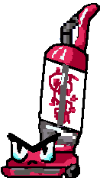
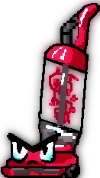
Add obstacles

Changed region(s): [[0.0, 0.0, 1.0, 1.0], [0.6, 0.8146, 0.72, 0.8708], [0.72, 0.7865, 0.75, 0.8146]]

diff --git a/src/player.js b/src/player.js
@@ -8,45 +8,50 @@
 class Player {
     constructor(dimensions){
         this.dimensions = dimensions;
-        this.size = 50;
-        this.ground = this.dimensions.height - this.size;
-        this.x = this.size; 
+        this.ground = this.dimensions.height - 34;
+        this.x = 50;
         this.y = this.ground; //it is sitting at the bottom
         this.velocity = 0; //velocity speed along the y axis to be able to jump
         this.gravity = .4; //on every frame adding .4 to the objects y position
         this.speed = 1;
         this.jumping= false;
-        this.jumpForce = 12;
+        this.jumpForce = 11;
         this.jumpTicks = 0;
         this.maxHeight = 0;
         this.dogHero = new Image();
         this.dogHero.src = "./assets/caped_hero.png";
+        this.walkcycle = 0;
         this.spriteTiles = [
             {
-                sX: 7,
-                sY: 9,
+                sX: 61,
+                sY: 34,
                 w: 61,
-                h: 34
-            },
-            {
-                sX: 81,
-                sY: 10,
-                w: 63,
                 h: 32
             },
-            {   
-                sX: 154,
-                sY: 6,
-                w: 57,
-                h: 39
-            }, 
-            {   
-                sX: 230,
-                sY: 6,
-                w: 65,
-                h: 40
+            {
+                sX: 244,
+                sY: 35,
+                w: 63,
+                h: 30
             },
-             
+            // {   
+            //     sX: 426,
+            //     sY: 31,
+            //     w: 67,
+            //     h: 38
+            // }, 
+            // {   
+            //     sX: 610,
+            //     sY: 30,
+            //     w: 67,
+            //     h: 40
+            // },
+            // {
+            //     sX: 797,
+            //     sY: 31,
+            //     w: 61,
+            //     h: 38
+            // }             
         ];
 
         }
@@ -80,19 +85,40 @@ class Player {
     //       }
         
     // }
+ //edit more sprites and add them
+    loadSprite() {
+        switch(true){
+        case (this.y < 266):
+            return this.spriteTiles[1];
+        case (this.walkcycle < 10):
+            this.walkcycle += 1;
+            return this.spriteTiles[0];
+        case (this.walkcycle < 20):
+            this.walkcycle += 1;
+            return this.spriteTiles[1];
+        case (this.walkcycle < 30):
+            this.walkcycle += 1;
+            return this.spriteTiles[1];
+        default: 
+            this.walkcycle = 0;
+            return this.spriteTiles[0];
+        }
 
+    
+        
+    }
     jump() {
         if (this.jumping) {
             //it is really making many microjumps (jumpTicks) on the page and stimulating one large jump
             //jumpTicks helps generate changing positiondisplacements using gravity
-          if (this.jumpTicks === 0 || this.y < 250){
+          if (this.jumpTicks === 0 || this.y < 266){ 
               this.positionDisplacement = this.gravity * this.jumpTicks;
               this.y -= this.jumpForce - this.positionDisplacement;
             //jumpForce is speed at which object jumps
             this.jumpTicks += 1;
           } else {
               //else reset everything 
-            this.y = 250;
+            this.y = 266;
             this.jumpTicks = 0; 
             this.jumping = false;
             }
@@ -121,17 +147,31 @@ class Player {
         this.draw(ctx);
     }
     draw(ctx){
-        ctx.clearRect(0,0,800,300);
-       
-        ctx.beginPath();
-        ctx.rect(this.x, this.y, this.size, this.size);
-        // ctx.drawImage(this.img, this.x, this.y);
-        ctx.fillStyle = "yellow";
-        ctx.fill();
-        ctx.strokeStyle = 'yellow';
-        ctx.stroke();
+        ctx.clearRect(0, 0, 800, 300)
+        let sprite = this.loadSprite();
+        ctx.drawImage(this.dogHero, sprite.sX, sprite.sY, sprite.w, sprite.h, this.x, this.y, sprite.w, sprite.h);
     }
-
+    // draw(ctx){
+        
+    //     ctx.clearRect(0,0,800,300);
+    //     for(let currentFrame = 0; currentFrame < this.spriteTiles.length; currentFrame++){
+    //         this.srcX = this.spriteTiles[currentFrame].sX;
+    //         this.srcY = this.spriteTiles[currentFrame].sY;
+    //         this.dogWidth = this.spriteTiles[currentFrame].w;
+    //         this.dogHeight = this.spriteTiles[currentFrame].h;
+    //         ctx.drawImage(this.dogHero, this.srcX, this.srcY, this.dogWidth, this.dogHeight, this.x, this.y, this.size, this.size);
+    //     }
+    // }
+    
+    // currentFrame = ++ currentFrame % cols; //gets updated index of frame
+    // debugger;
+    // ctx.beginPath();
+    // ctx.rect(this.x, this.y, this.size, this.size);
+    // // ctx.drawImage(this.img, this.x, this.y);
+    // ctx.fillStyle = "yellow";
+    // ctx.fill();
+    // ctx.strokeStyle = 'yellow';
+    // ctx.stroke();
 }
 
 

diff --git a/src/game.js b/src/game.js
@@ -1,6 +1,7 @@
 const Player = require('./player');
 const Background = require('./background.js');
 const Vacuum = require('./vacuum.js');
+const Treat = require('./treat.js');
 class Game{
     constructor(gamectx, backgroundctx){
         this.gamectx = gamectx;
@@ -11,12 +12,14 @@ class Game{
         this.spacePressed = false;
         this.registerEvents();
         this.start();
-       
+        this.obstacles = [];
         this.score = 0;
         this.gameSpeed = 3;
         this.gravity = 1;
+
         
     }
+ 
     // jump(){
         //     this.player.jumping = true;
         //     this.player.jump();
@@ -36,18 +39,21 @@ class Game{
         requestAnimationFrame(this.animate.bind(this));
         this.player.animate(this.gamectx);
         this.vacuum.draw(this.gamectx);
+        this.treat.draw(this.gamectx);
         this.background.draw();
     }
     start(){
         this.gameOver = false;
         this.player = new Player(this.dimensions);
-        this.vacuum = new Vacuum(700, 167);
-        
+        this.vacuum = new Vacuum(700, 184);
+        this.treat = new Treat(500, 140);
 
         //all other things to load here
         this.animate();
     }
-    
+    createObstacle(){
+
+    }
     
     // requestAnimation(){
     //     debugger;

diff --git a/src/vacuum.js b/src/vacuum.js
@@ -1,18 +1,26 @@
-const Obstacle = require("./obstacle");
 class Vacuum{
     constructor(positionX, positionY){
         // super(positionX, positionY);
         this.sprite = new Image();
         this.sprite.src = "./assets/evil_vacuum.png";
-        this.vacuumWidth = 75; 
+        this.vacuumWidth = 65; 
         this.spawnX = positionX;
-        this.vacuumHeight = 133;   
+        this.x = positionX;
+        this.vacuumHeight = 116;   
         this.spawnY = positionY;
+        this.speed = 3;
     }
 
 
     draw(ctx){
         ctx.drawImage(this.sprite, this.spawnX, this.spawnY, this.vacuumWidth, this.vacuumHeight);
+        if(this.spawnX <= (ctx.canvas.width*-1)){ 
+        
+        
+            this.spawnX = ctx.canvas.width;
+         
+        }
+        this.spawnX -= this.speed;
     }
 }
 module.exports= Vacuum;

diff --git a/src/treat.js b/src/treat.js
@@ -1,4 +1,26 @@
-const Obstacle = require("./obstacle");
-class Treat extends Obstacle{
+class Treat {
+    constructor(positionX, positionY){
+        // super(positionX, positionY);
+        this.sprite = new Image();
+        this.sprite.src = "./assets/bone_treat.gif";
+        this.boneWidth = 30; 
+        this.spawnX = positionX;
+        this.x = positionX;
+        this.boneHeight = 14;   
+        this.spawnY = positionY;
+        this.speed = 3;
+    }
 
+
+    draw(ctx){
+        ctx.drawImage(this.sprite, this.spawnX, this.spawnY, this.boneWidth, this.boneHeight);
+        if(this.spawnX <= (ctx.canvas.width*-1)){ 
+        
+        
+            this.spawnX = ctx.canvas.width; 
+         
+        }
+        this.spawnX -= this.speed;
+    }
 }
+module.exports = Treat;

diff --git a/index.html b/index.html
@@ -11,9 +11,9 @@
 
   <body>
       <div class="name_container"> 
-        <img src='./assets/bone_treat.png' class="bone rotate"> 
+        <img src='./assets/big_bone.png' class="bone rotate"> 
         <h1 class="game_name">  Treat Retriever  </h1> 
-        <img src='./assets/bone_treat.png' class="bone rotate">
+        <img src='./assets/big_bone.png' class="bone rotate">
         </div>
         <br></br>
       <div class="game_area">
